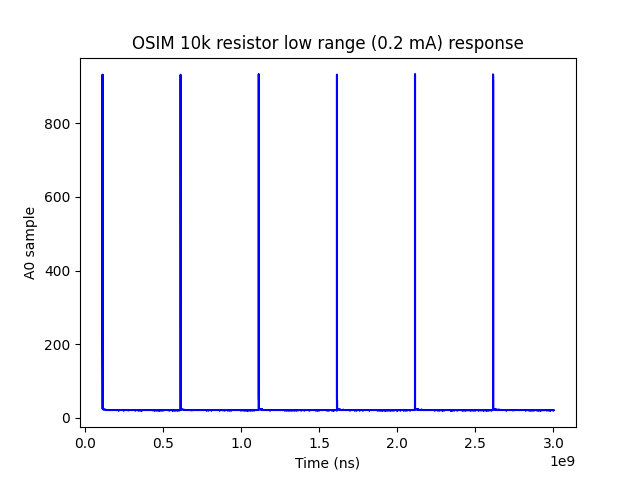
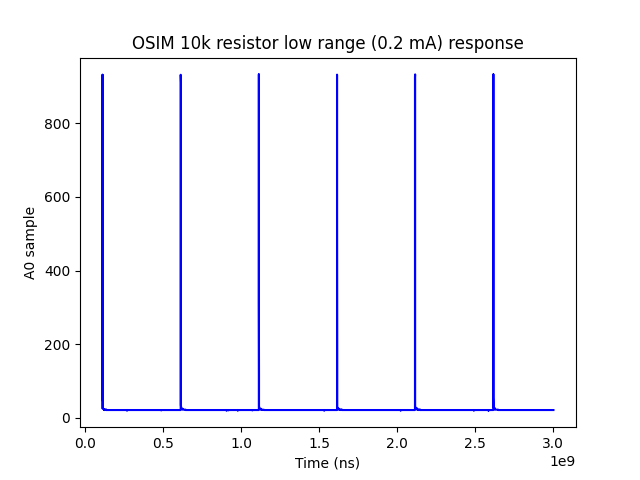
Implemented max grouping algorithm for finding peaks in the dataset.

Changed region(s): [[0.8438, 0.9062, 0.875, 0.9375]]

diff --git a/MaterialTester.py b/MaterialTester.py
@@ -111,15 +111,39 @@ class MaterialTester:
     grouping them by their timestamps, until sample time * stimuplex frequency groups have been identified.
     """
     def groupMaxSamples(self, lowRange):
-        # The samples within a group are guaranteed to be within this time frame
+        # The samples within a group are guaranteed to be within this time frame inclusive
         groupTimeFrameNs = 1e3
 
         # Tupulize the dataset into a list of (sample, timestamp) pairs
         optoData = []
         for i in range(0, len(self.samples[self.indexer[lowRange]])):
-            optoData.append((self.samples[self.indexer[lowRange]+1][i], self.samples[self.indexer[lowRange]][i]))
-        print(optoData)
+            optoData.append((self.samples[self.indexer[lowRange]+1][i] * -1, self.samples[self.indexer[lowRange]][i]))
+        # Heapify
+        heapq.heapify(optoData)
 
         totalGroups = int(self.stimFreq * self.sampleTimeNs / 1e9)
 
         groups = []
+
+        while len(groups) < totalGroups:
+            dataPoint = heapq.heappop(optoData)
+            # Reverse the order of the tuple and multiply analog reading by -1
+            dataPoint = (dataPoint[1], dataPoint[0] * -1)
+            # Step through the groups and try to allocate the data point to one
+            allocated = False
+            for group in groups:
+                if dataPoint[0] <= group[0][0] + groupTimeFrameNs and dataPoint[0] >= group[-1][0] - groupTimeFrameNs:
+                    heapq.heappush(group, dataPoint)
+                    allocated = True
+                    break
+            # Create a new group if not allocated
+            if not allocated:
+                group = [dataPoint]
+                heapq.heapify(group)
+                groups.append(group)
+
+        self.activeSamples = [[], []]
+        i = int(self.indexer[lowRange] / 2)
+        for group in groups:
+            for dataPoint in group:
+                self.activeSamples[i].append(dataPoint[1])

diff --git a/test.py b/test.py
@@ -29,9 +29,9 @@ def setStimLims():
     tester.stimRanges = [low, hi]
 
 def dataAnalysis():
-    tester.aboveAveragePulseSamples(True)
-    tester.plotActiveSamples(True, matName + "ActiveSamplePlot.png", matName + " active samples low", "Sample Number", "A0 sample")
+    # tester.aboveAveragePulseSamples(True)
     tester.groupMaxSamples(True)
+    tester.plotActiveSamples(True, matName + "ActiveSamplePlot.png", matName + " active samples low", "Sample Number", "A0 sample")
 
 def saveData():
     fpath = "datasets\\" + matName + ".csv"
